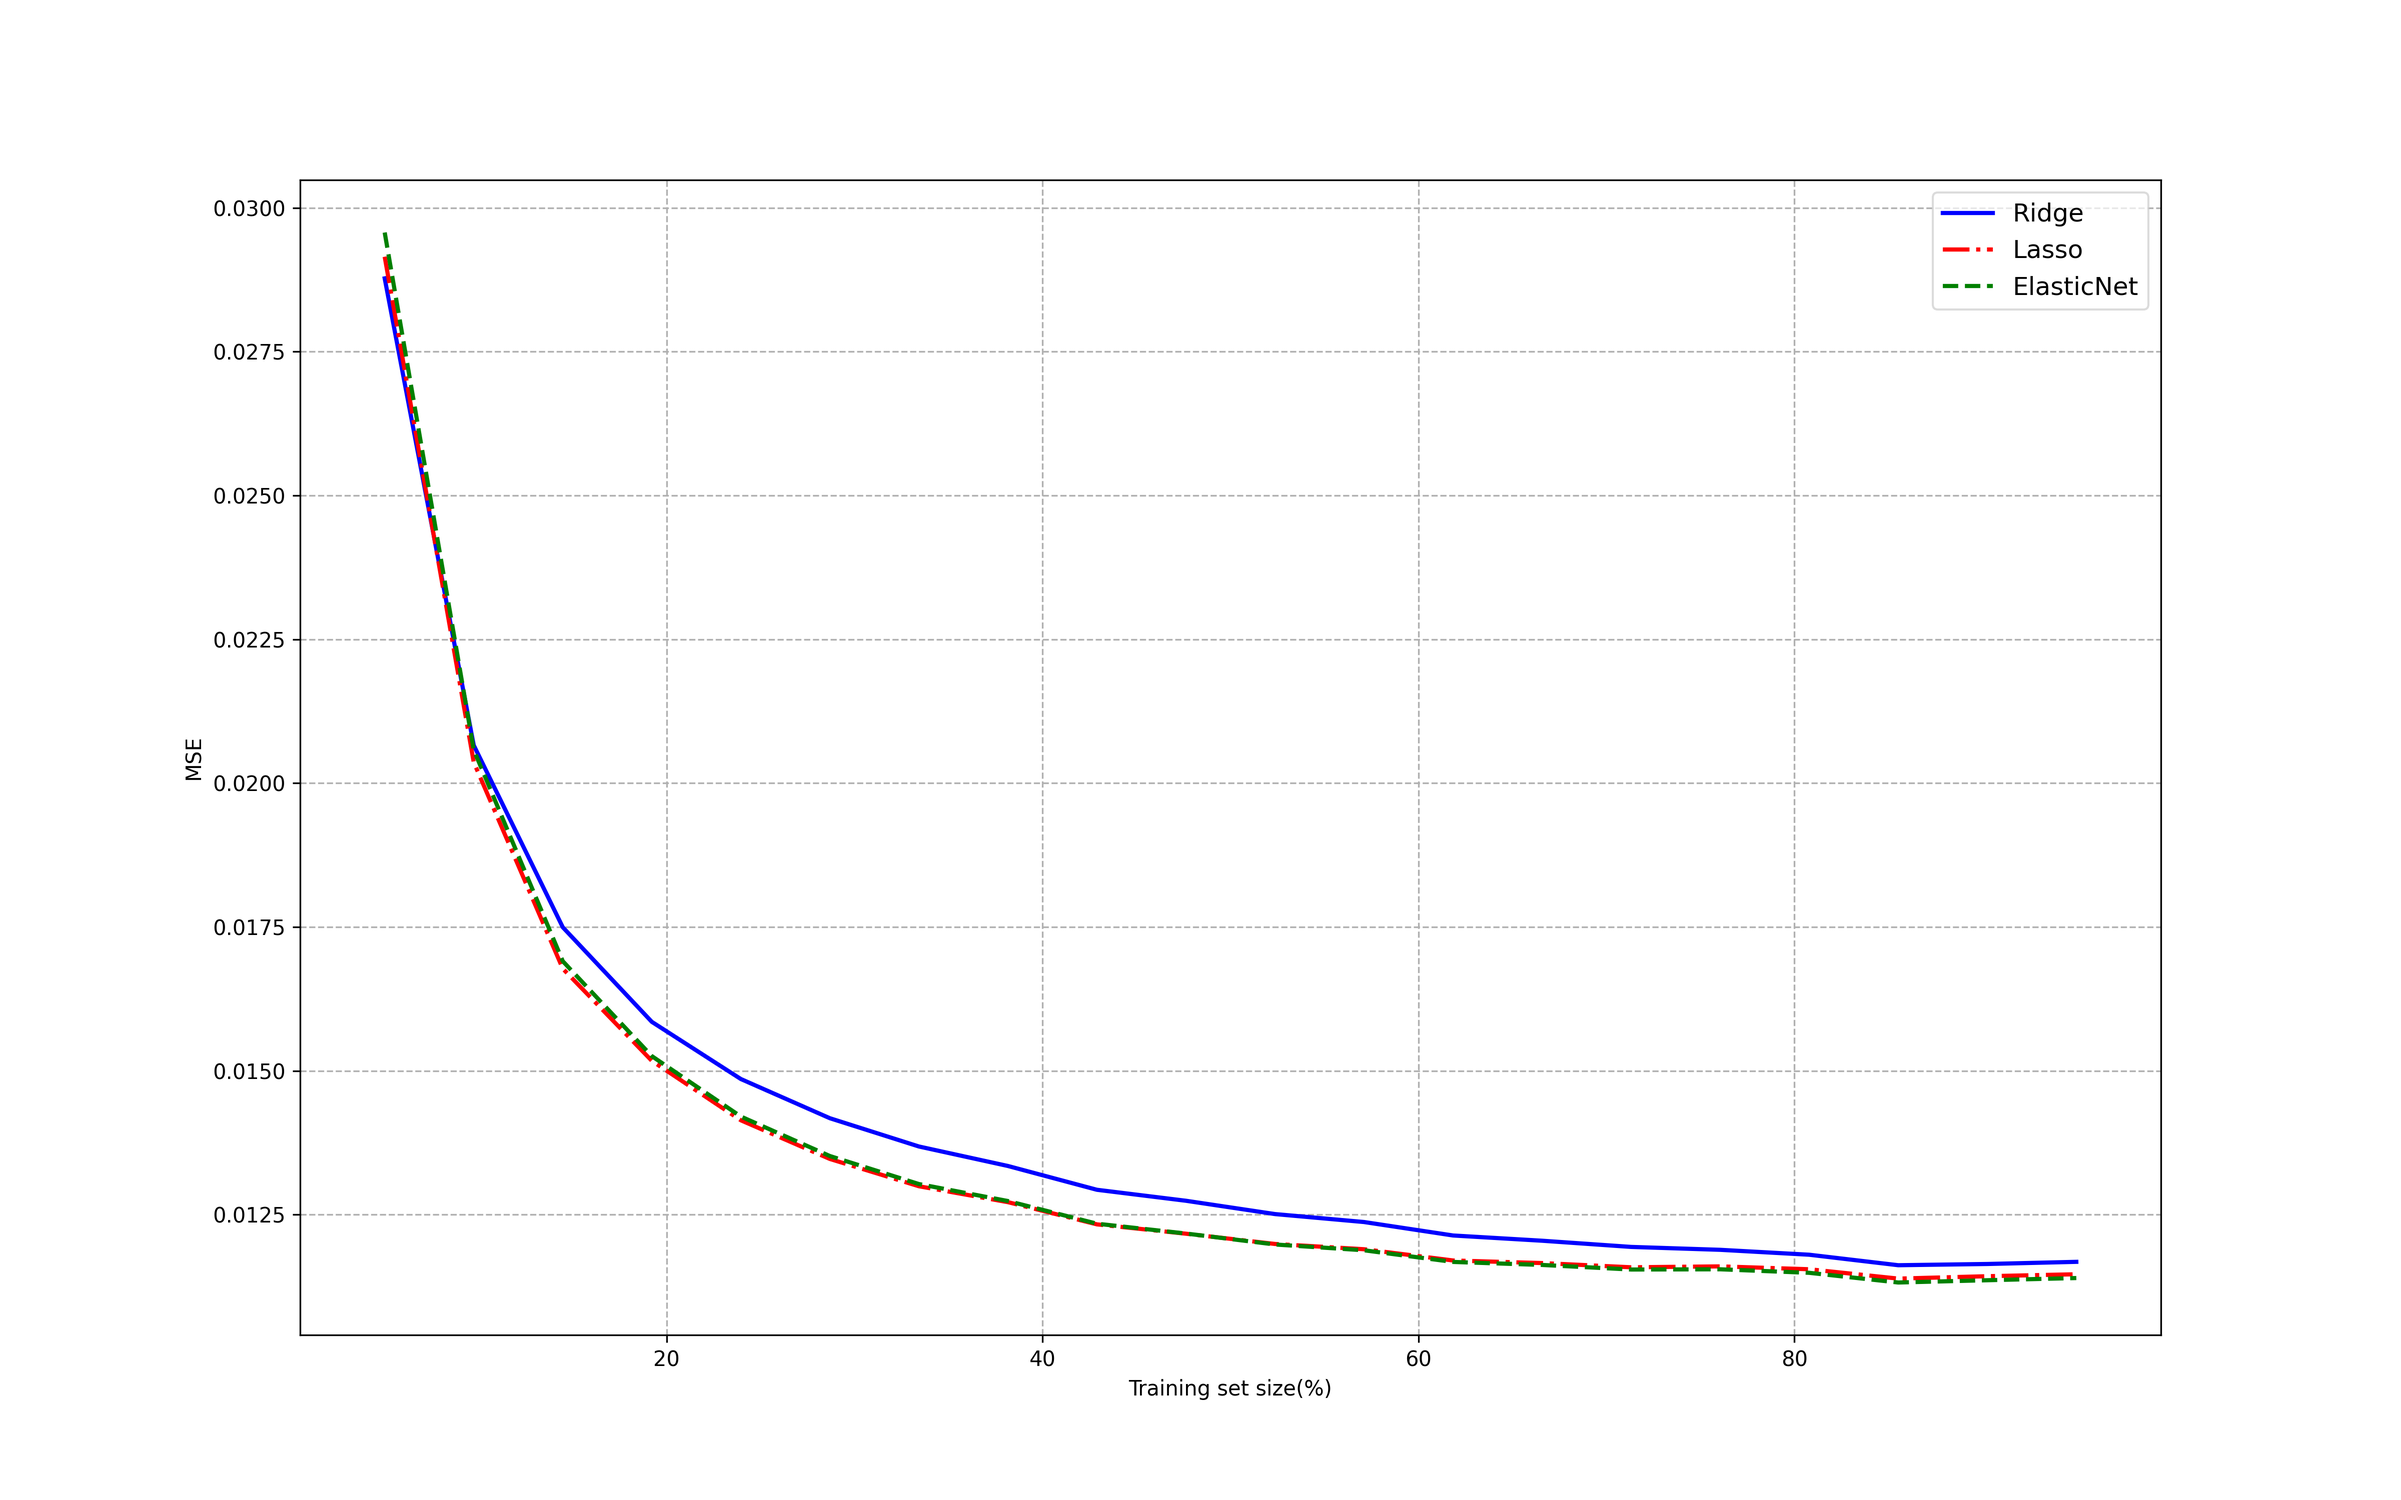
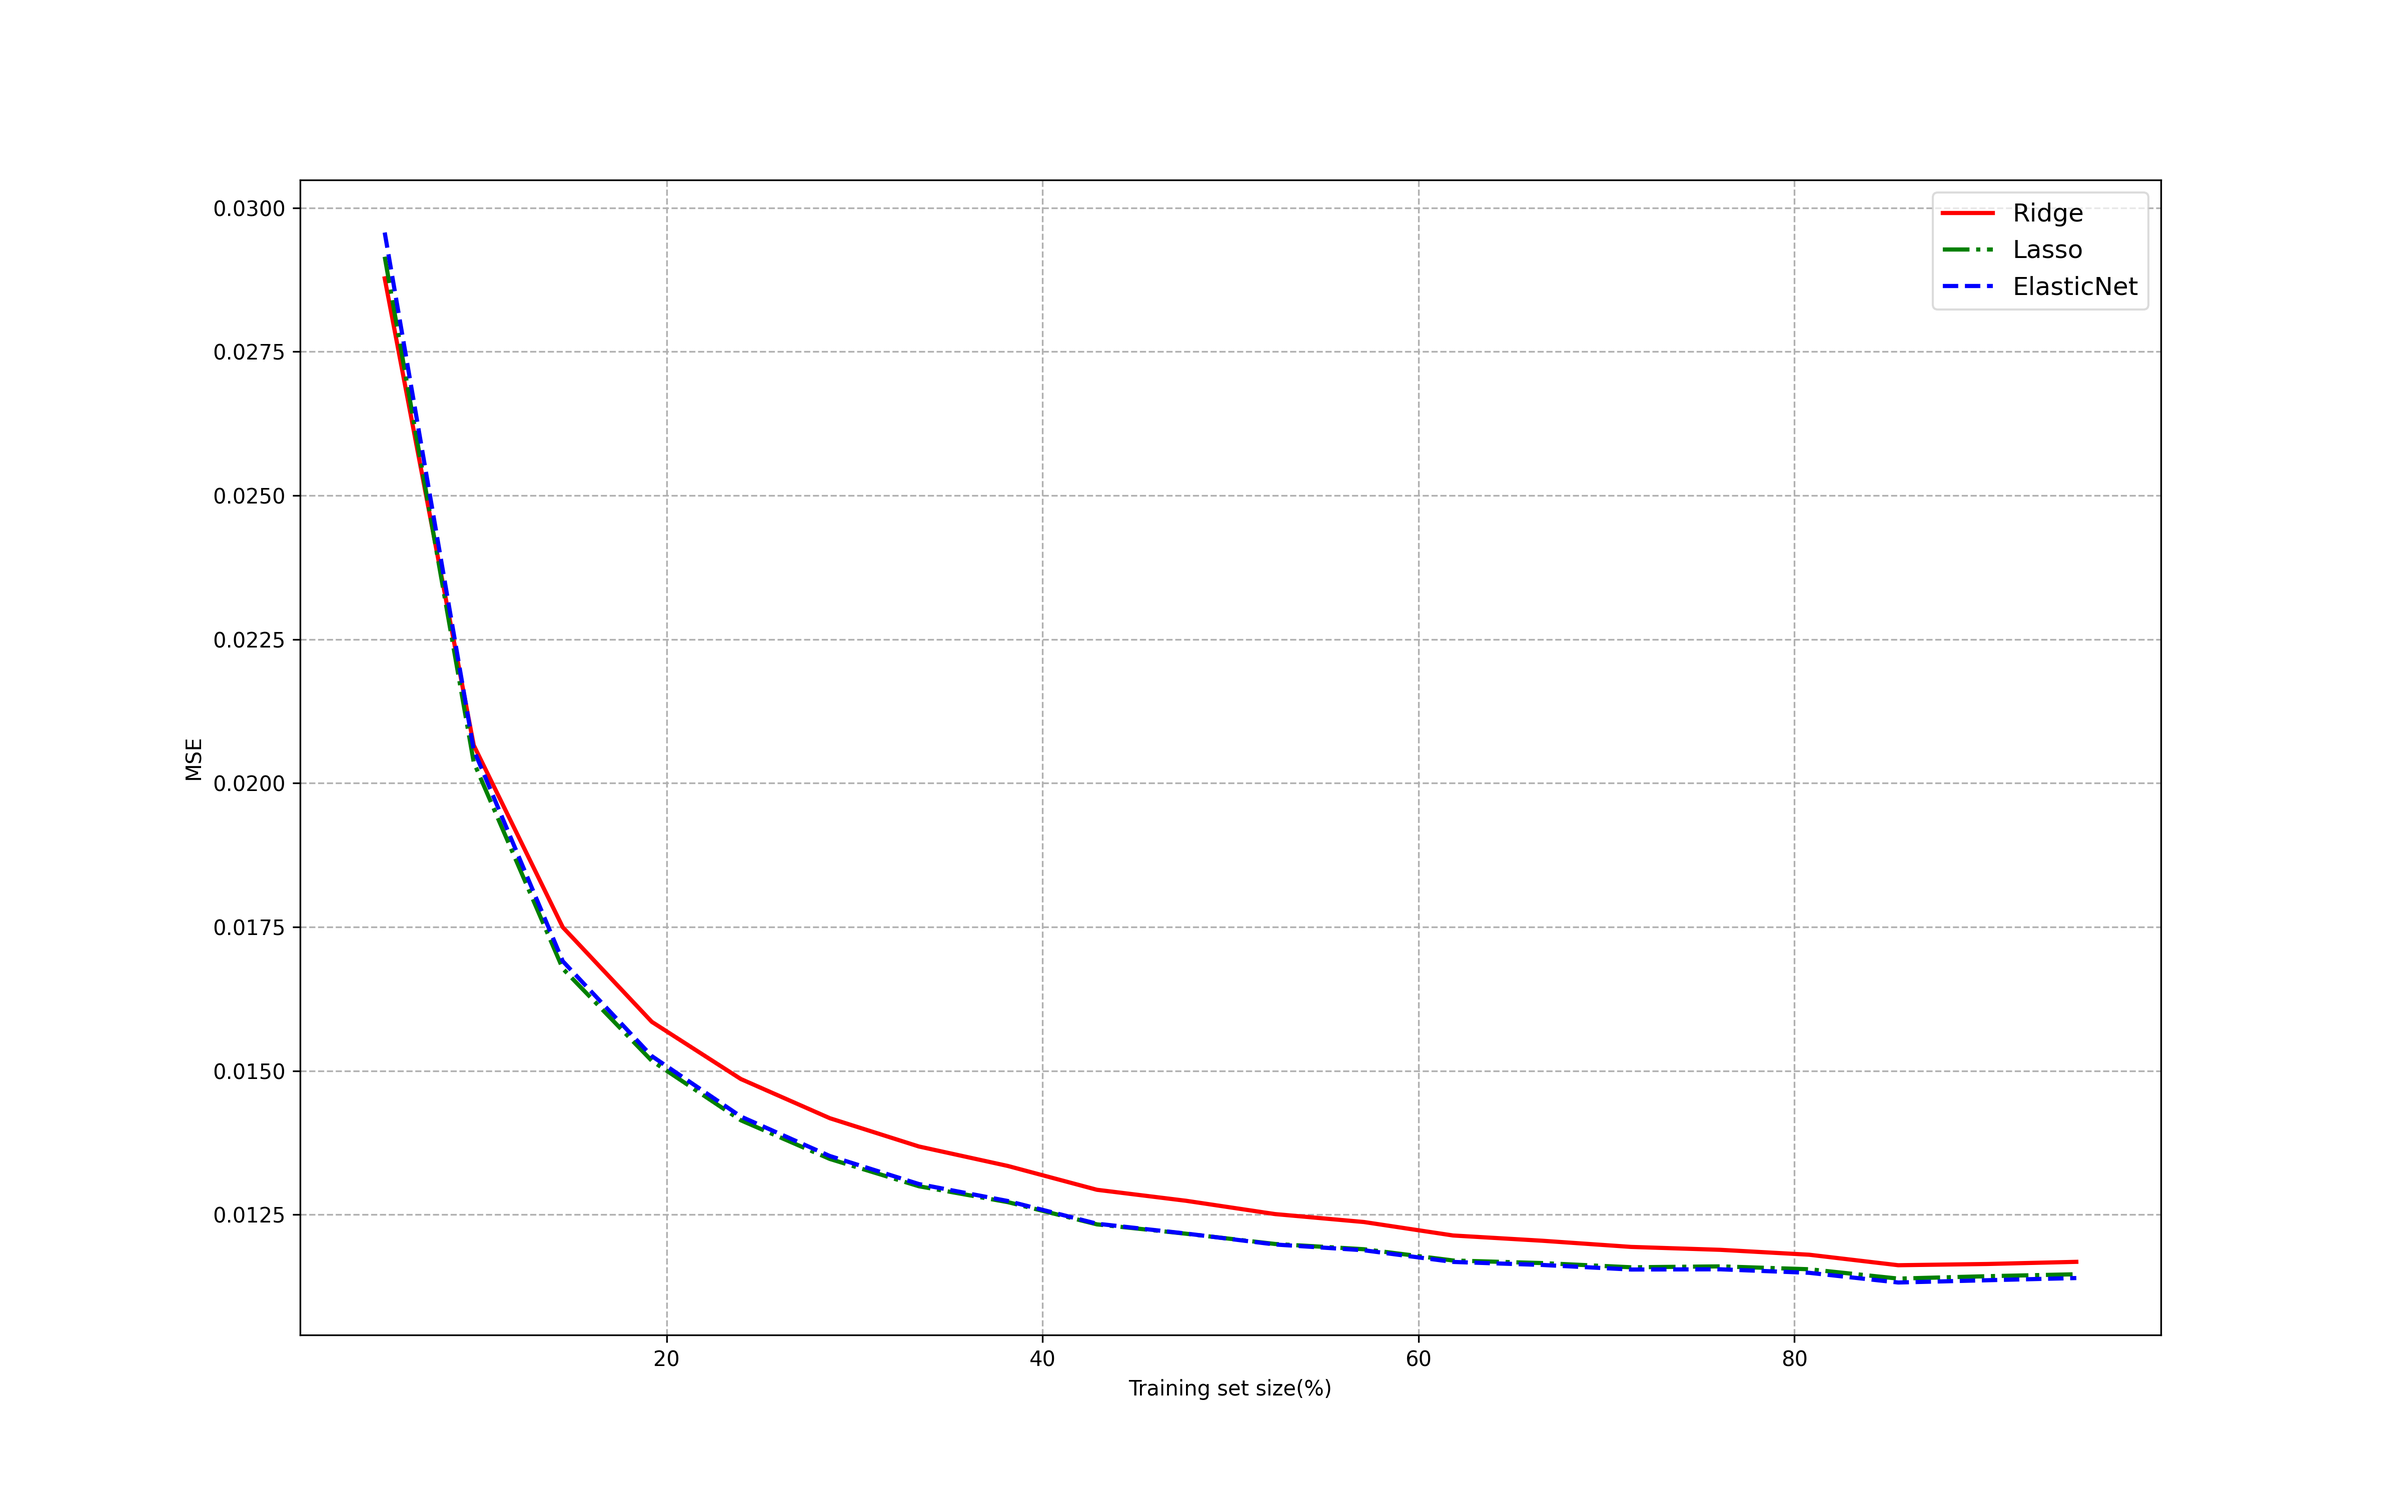
[chg] fixed bug

diff --git a/Regular_regression.py b/Regular_regression.py
@@ -14,7 +14,7 @@ from sklearn.metrics import mean_squared_error
 if __name__ == '__main__':
     ## 预设置
     show_ridge_b = False
-    show_lasso_b = True
+    show_lasso_b = False
     show_ElasticNet_b = False
     show_Top_num = 10
     ## 读取数据
@@ -123,7 +123,7 @@ if __name__ == '__main__':
         sorted_dict = sorted(coef_list, key=lambda x: np.abs(x['coff_val']),reverse=True)
         count = 1  # 用于计数前10个键值对
         for dicts in sorted_dict:
-            print(str(count)+' ,'+dicts['coff_name']+' ,'+str(np.round(dicts['coff_val'],4)))
+            print(str(count)+', '+dicts['coff_name']+', '+str(np.round(dicts['coff_val'],4)))
             count += 1
             if count > show_Top_num:
                 break
@@ -176,7 +176,7 @@ if __name__ == '__main__':
     plt.scatter(np.arange(len(y_test)),res_log_elasticNet,c='b',label=mse_elasticNet,alpha=0.5,edgecolors='none')
     plt.legend(loc=1,fontsize='large',framealpha=0.7)
     plt.xlabel('Test idx.')
-    plt.ylabel('log(residual)')
+    plt.ylabel('Residual')
     plt.yscale('log')
     plt.grid(True,which='both',linestyle='--',axis='both')
     plt.savefig('7.png')

diff --git a/demo.py b/demo.py
@@ -23,7 +23,6 @@ if __name__ == '__main__':
     scaler = MinMaxScaler()
     scaler.fit(data_raw)
     x_scal = scaler.transform(data_raw)
-
     MSE_arr = np.zeros((len(test_rate_list),repeat_num,3))
     for idx_i in range(len(test_rate_list)):
         for idx_j in range(repeat_num):
@@ -45,9 +44,9 @@ if __name__ == '__main__':
     MSE_mean = np.mean(MSE_arr,axis=1)
     print(MSE_mean.shape)
     fig = plt.figure(figsize=(16,10),dpi=300)
-    plt.plot((1-test_rate_list)*100,MSE_mean[:,0],lw=2,ls='-',color='blue',label='Ridge')
-    plt.plot((1-test_rate_list)*100,MSE_mean[:,1],lw=2,ls='-.',color='red',label='Lasso')
-    plt.plot((1-test_rate_list)*100,MSE_mean[:,2],lw=2,ls='--',color='g',label='ElasticNet')
+    plt.plot((1-test_rate_list)*100,MSE_mean[:,0],lw=2,ls='-',color='r',label='Ridge')
+    plt.plot((1-test_rate_list)*100,MSE_mean[:,1],lw=2,ls='-.',color='g',label='Lasso')
+    plt.plot((1-test_rate_list)*100,MSE_mean[:,2],lw=2,ls='--',color='b',label='ElasticNet')
     plt.xlabel('Training set size(%)')
     plt.ylabel('MSE')
     plt.legend(loc=1,fontsize='large',framealpha=0.7)
